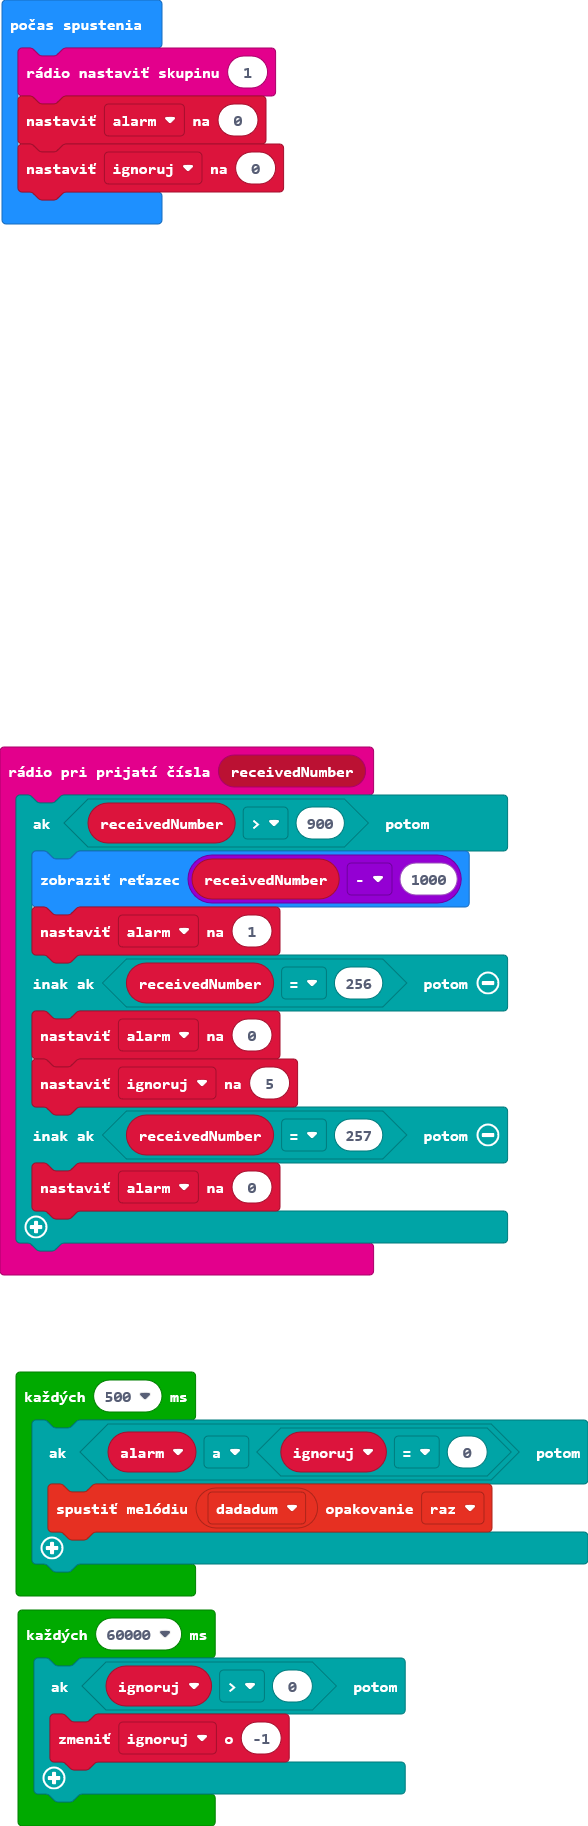
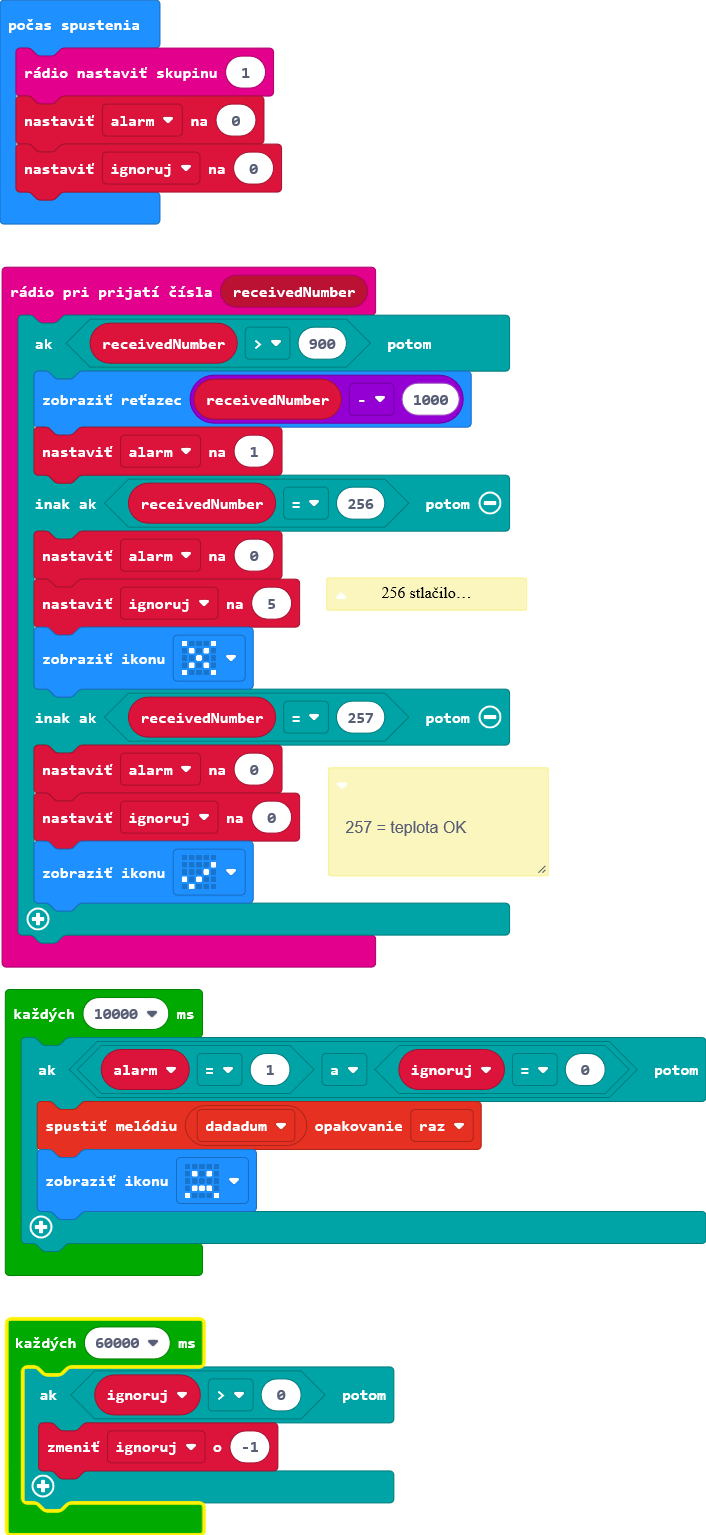
Aktualizovať main.blocks, main.ts

diff --git a/main.ts b/main.ts
@@ -1,3 +1,9 @@
+/**
+ * 256 stlačilo sa B
+ */
+/**
+ * 257 = teplota OK
+ */
 radio.onReceivedNumber(function (receivedNumber) {
     if (receivedNumber > 900) {
         basic.showString("" + (receivedNumber - 1000))
@@ -5,8 +11,11 @@ radio.onReceivedNumber(function (receivedNumber) {
     } else if (receivedNumber == 256) {
         alarm = 0
         ignoruj = 5
+        basic.showIcon(IconNames.No)
     } else if (receivedNumber == 257) {
         alarm = 0
+        ignoruj = 0
+        basic.showIcon(IconNames.Yes)
     }
 })
 let ignoruj = 0
@@ -14,9 +23,10 @@ let alarm = 0
 radio.setGroup(1)
 alarm = 0
 ignoruj = 0
-loops.everyInterval(500, function () {
-    if (alarm && ignoruj == 0) {
+loops.everyInterval(10000, function () {
+    if (alarm == 1 && ignoruj == 0) {
         music.startMelody(music.builtInMelody(Melodies.Dadadadum), MelodyOptions.Once)
+        basic.showIcon(IconNames.Sad)
     }
 })
 loops.everyInterval(60000, function () {
